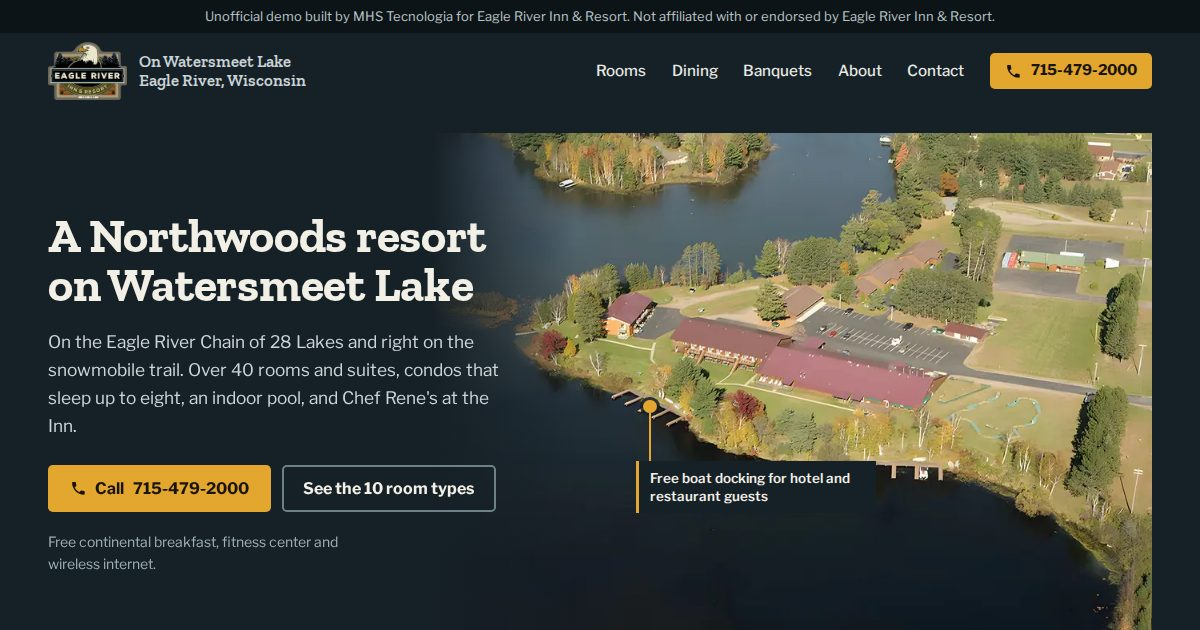
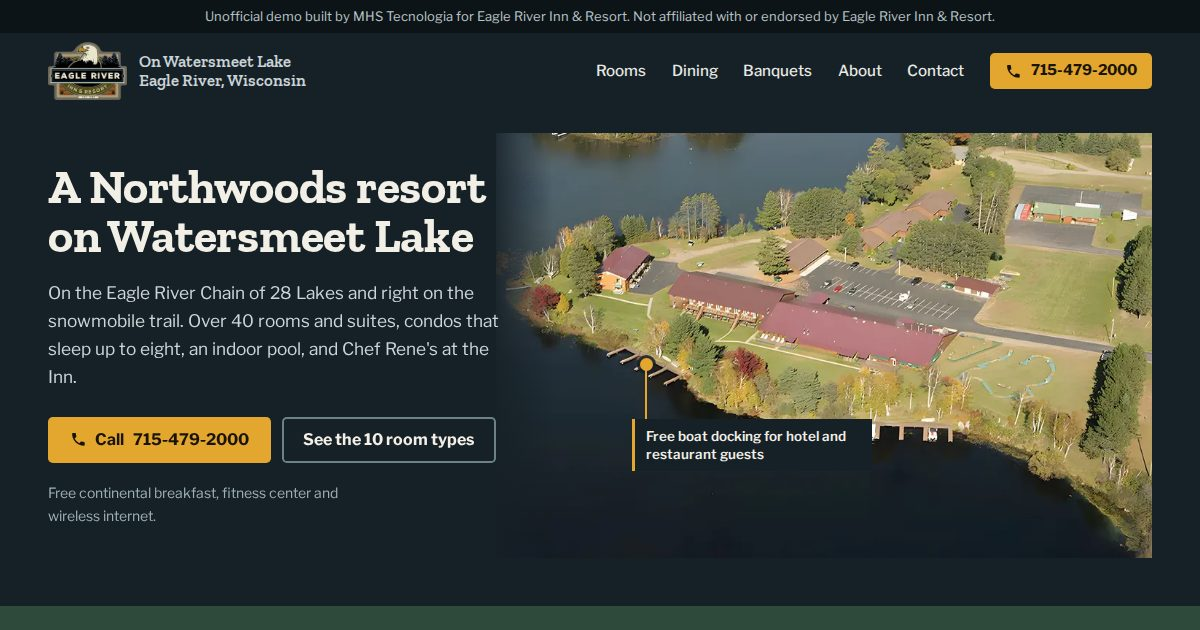
Previews: 118 ativos

diff --git a/eagle-river-inn-resort-wi/rooms.html b/eagle-river-inn-resort-wi/rooms.html
@@ -82,16 +82,16 @@ p { max-width: 64ch; }
 .hero .lede { margin-top: 1.1rem; color: #ccd5d7; font-size: 1.08rem; }
 .ctas { display: flex; flex-wrap: wrap; gap: .7rem; margin-top: 1.6rem; }
 .hero .small { margin-top: 1.2rem; font-size: .875rem; color: #9fb0b5; max-width: 34ch; }
-.aerial { position: relative; margin-left: -6rem; }
+.aerial { position: relative; margin-left: -2rem; }
 .aerial picture, .aerial img { width: 100%; }
-.aerial::before { content: ""; position: absolute; inset: 0 auto 0 0; width: 9rem; background: linear-gradient(90deg, var(--lake), rgba(22,32,39,0)); z-index: 1; pointer-events: none; }
+.aerial::before { content: ""; position: absolute; inset: 0 auto 0 0; width: 3.5rem; background: linear-gradient(90deg, rgba(22,32,39,.85), rgba(22,32,39,0)); z-index: 1; pointer-events: none; }
 .aerial figcaption { position: absolute; right: .8rem; bottom: .6rem; z-index: 2; font-size: .75rem; color: #e3e8e6; background: rgba(22,32,39,.72); padding: .2rem .5rem; border-radius: .2rem; }
 /* One fact, pinned where it is in the photo: the piers in front of the lodge. */
 .pin { position: absolute; z-index: 2; left: var(--px); top: var(--py); width: 0; height: 0; }
 .pin::before { content: ""; position: absolute; left: -.42rem; top: -.42rem; width: .84rem; height: .84rem; border-radius: 50%; background: var(--beak); box-shadow: 0 0 0 3px rgba(22,32,39,.85); }
 .pin::after { content: ""; position: absolute; left: -1px; top: 0; width: 2px; height: 3.4rem; background: var(--beak); transform-origin: top; }
 .pin span { position: absolute; left: -.9rem; top: 3.4rem; width: 15rem; background: var(--lake); color: #f1efe6; font-size: .84rem; line-height: 1.35; font-weight: 600; padding: .5rem .7rem; border-left: 3px solid var(--beak); }
-.hero { --px: 30.3%; --py: 52.4%; }
+.hero { --px: 22.9%; --py: 54.5%; }
 @media (prefers-reduced-motion: no-preference) {
   .pin::after { animation: rise .7s .5s cubic-bezier(.2,.7,.2,1) both; }
   .pin span { animation: show .4s 1.1s ease-out both; }
@@ -166,8 +166,14 @@ section.band { padding: clamp(3.5rem, 7vw, 6rem) 0; }
 .room p { margin-top: .6rem; color: var(--muted); }
 .tags { display: flex; flex-wrap: wrap; gap: .4rem; margin-top: .8rem; padding: 0; list-style: none; }
 .tags li { font-size: .82rem; font-weight: 600; padding: .2rem .55rem; background: #dfe5dc; color: var(--pine); border-radius: .2rem; }
-.room.text-only { background: var(--paper); padding: 1.6rem; border-left: 4px solid var(--roof); align-self: start; }
+.room.text-only { background: var(--lake); color: #f1efe6; padding: clamp(1.6rem, 3vw, 2.4rem); border-radius: .2rem; display: flex; flex-direction: column; }
 .room.text-only h2 { margin-top: 0; }
+.room.text-only .key { font-family: "Zilla Slab", Georgia, serif; font-weight: 700; font-size: clamp(2.4rem, 4vw, 3.4rem); line-height: 1; color: var(--beak); margin-bottom: 1.2rem; }
+.room.text-only .beds { color: #f1efe6; }
+.room.text-only p { color: #ccd5d7; }
+.room.text-only .tags li { background: var(--lake-2); color: #e6e9e4; }
+.room.text-only .layout { list-style: none; padding: 0; margin-top: auto; padding-top: 1.4rem; border-top: 1px solid var(--lake-line); display: grid; gap: .3rem; font-size: .95rem; }
+.room.text-only .layout b { color: #fff; }
 .empty { padding: 2rem 0; font-weight: 600; }
 .every { padding: 1.5rem 0 3.5rem; color: var(--muted); }
 
@@ -233,6 +239,9 @@ footer .legal { margin-top: 2.5rem; padding-top: 1.25rem; border-top: 1px solid 
   .ctas { margin-top: 1.2rem; }
   .ctas .btn { flex: 1 1 100%; }
   .hero .small { display: none; }
+  .lede-more { display: none; }
+  .hero h1 { font-size: 2.15rem; }
+  .aerial { margin-top: 1rem; }
   .facts { grid-template-columns: 1fr; }
   .trio { grid-template-columns: 1fr; }
   .gallery { grid-template-columns: 1fr; }
@@ -287,10 +296,10 @@ footer .legal { margin-top: 2.5rem; padding-top: 1.25rem; border-top: 1px solid 
 <li class="room" id="bunk-bed" data-tags="bunk"><img src="img/room-14-960.webp" srcset="img/room-14-960.webp 960w, img/room-14-720.webp 720w, img/room-14-480.webp 480w" sizes="(min-width: 1310px) 572px, (min-width: 901px) calc(50vw - 3rem), calc(100vw - 2rem)" width="960" height="640" alt="The Bunk Bed Room" loading="lazy" decoding="async"><h2>Bunk Bed Room</h2><p class="beds">1 queen bed and twin bunk beds</p><p>A spacious room with a queen bed and twin bunk beds. Mini fridge, microwave, remote control color television, air conditioning, in-room coffee and continental breakfast.</p><ul class="tags"><li>Bunk beds</li></ul></li>
 <li class="room" id="king-kitchenette" data-tags="kitchen"><img src="img/room-15-960.webp" srcset="img/room-15-960.webp 960w, img/room-15-720.webp 720w, img/room-15-480.webp 480w" sizes="(min-width: 1310px) 572px, (min-width: 901px) calc(50vw - 3rem), calc(100vw - 2rem)" width="960" height="640" alt="The King room with Kitchenette" loading="lazy" decoding="async"><h2>King room with Kitchenette</h2><p class="beds">1 king bed and a queen sofa sleeper</p><p>A large room with a kitchenette: full sized refrigerator, 2 counter-top burners, cooking appliances and a dining area. Remote control color television, air conditioning, in-room coffee and continental breakfast.</p><ul class="tags"><li>Kitchen or kitchenette</li></ul></li>
 <li class="room" id="jacuzzi-suite" data-tags="jacuzzi"><img src="img/room-17-960.webp" srcset="img/room-17-960.webp 960w, img/room-17-720.webp 720w, img/room-17-480.webp 480w" sizes="(min-width: 1310px) 572px, (min-width: 901px) calc(50vw - 3rem), calc(100vw - 2rem)" width="960" height="640" alt="The Jacuzzi Suite" loading="lazy" decoding="async"><h2>Jacuzzi Suite</h2><p class="beds">1 king bed and a Jacuzzi tub</p><p>The dream suite: a comfortable king bed and a Jacuzzi tub. Mini fridge, microwave, remote control color television, air conditioning, in-room coffee and continental breakfast.</p><ul class="tags"><li>Jacuzzi tub</li></ul></li>
-<li class="room" id="standard-suite" data-tags="bedroom"><img src="img/room-18-960.webp" srcset="img/room-18-960.webp 960w, img/room-18-720.webp 720w, img/room-18-480.webp 480w" sizes="(min-width: 1310px) 572px, (min-width: 901px) calc(50vw - 3rem), calc(100vw - 2rem)" width="960" height="640" alt="The Standard Suite" loading="lazy" decoding="async"><h2>Standard Suite</h2><p class="beds">1 king bed in a private bedroom, 2 queen beds in the living area</p><p>A private bedroom with a king bed, and two more queen beds in the separate living area. Mini fridge, microwave, color television, air conditioning, in-room coffee and continental breakfast.</p><ul class="tags"><li>Separate bedroom</li></ul></li>
+<li class="room text-only" id="standard-suite" data-tags="bedroom"><p class="key">3 beds, 2 rooms</p><h2>Standard Suite</h2><p class="beds">1 king bed in a private bedroom, 2 queen beds in the living area</p><p>A private bedroom with a king bed, and two more queen beds in the separate living area. Mini fridge, microwave, color television, air conditioning, in-room coffee and continental breakfast.</p><ul class="tags"><li>Separate bedroom</li></ul><ul class="layout"><li><b>Bedroom:</b> 1 king bed</li><li><b>Living area:</b> 2 queen beds</li></ul></li>
 <li class="room" id="presidential-suite" data-tags="bedroom kitchen jacuzzi"><img src="img/room-19-960.webp" srcset="img/room-19-960.webp 960w, img/room-19-720.webp 720w, img/room-19-480.webp 480w" sizes="(min-width: 1310px) 572px, (min-width: 901px) calc(50vw - 3rem), calc(100vw - 2rem)" width="960" height="640" alt="The Presidential Suite" loading="lazy" decoding="async"><h2>Presidential Suite</h2><p class="beds">1 queen bed in a private bedroom, a king bed and queen sofa sleeper in the living area</p><p>A large suite with a kitchen and a 2 person Jacuzzi tub in the bathroom. Air conditioning, in-room coffee and continental breakfast.</p><ul class="tags"><li>Separate bedroom</li><li>Kitchen or kitchenette</li><li>Jacuzzi tub</li></ul></li>
 <li class="room" id="3-bedroom-suite" data-tags="bedroom kitchen lake"><img src="img/room-20-960.webp" srcset="img/room-20-960.webp 960w, img/room-20-720.webp 720w, img/room-20-480.webp 480w" sizes="(min-width: 1310px) 572px, (min-width: 901px) calc(50vw - 3rem), calc(100vw - 2rem)" width="960" height="640" alt="The 3 Bedroom Suite" loading="lazy" decoding="async"><h2>3 Bedroom Suite</h2><p class="beds">3 private bedrooms with queen beds, plus a queen sofa sleeper</p><p>3 bedrooms and 2 bathrooms, a full kitchen, and 2 sets of glass patio doors with a lake view: one off the living area, one off a bedroom. Color television, air conditioning, in-room coffee and continental breakfast.</p><ul class="tags"><li>Separate bedroom</li><li>Kitchen or kitchenette</li><li>Lake view or patio</li></ul></li>
-<li class="room text-only" id="condo" data-tags="bedroom"><h2>Condominium rental</h2><p class="beds">Sleeps up to eight</p><p>Three bedrooms and three baths. Ask the front desk about condo availability.</p><ul class="tags"><li>Separate bedroom</li></ul></li>
+<li class="room text-only" id="condo" data-tags="bedroom"><p class="key">Sleeps up to 8</p><h2>Condominium rental</h2><p class="beds">A place of its own at the resort</p><p>Ask the front desk about condo availability.</p><ul class="tags"><li>Separate bedroom</li></ul><ul class="layout"><li><b>3</b> bedrooms</li><li><b>3</b> baths</li></ul></li>
   </ul>
   <p class="empty" id="empty" hidden>No single room type has all of those. Clear a filter, or call <a class="num" href="tel:+17154792000">715-479-2000</a> and the front desk will suggest a combination.</p>
   <p class="every">Book by phone at <a class="num" href="tel:+17154792000">715-479-2000</a>, 24 hours a day. Online booking on the inn's live site goes through its Lodgical reservation calendar.</p>

diff --git a/eagle-river-inn-resort-wi/index.html b/eagle-river-inn-resort-wi/index.html
@@ -83,16 +83,16 @@ p { max-width: 64ch; }
 .hero .lede { margin-top: 1.1rem; color: #ccd5d7; font-size: 1.08rem; }
 .ctas { display: flex; flex-wrap: wrap; gap: .7rem; margin-top: 1.6rem; }
 .hero .small { margin-top: 1.2rem; font-size: .875rem; color: #9fb0b5; max-width: 34ch; }
-.aerial { position: relative; margin-left: -6rem; }
+.aerial { position: relative; margin-left: -2rem; }
 .aerial picture, .aerial img { width: 100%; }
-.aerial::before { content: ""; position: absolute; inset: 0 auto 0 0; width: 9rem; background: linear-gradient(90deg, var(--lake), rgba(22,32,39,0)); z-index: 1; pointer-events: none; }
+.aerial::before { content: ""; position: absolute; inset: 0 auto 0 0; width: 3.5rem; background: linear-gradient(90deg, rgba(22,32,39,.85), rgba(22,32,39,0)); z-index: 1; pointer-events: none; }
 .aerial figcaption { position: absolute; right: .8rem; bottom: .6rem; z-index: 2; font-size: .75rem; color: #e3e8e6; background: rgba(22,32,39,.72); padding: .2rem .5rem; border-radius: .2rem; }
 /* One fact, pinned where it is in the photo: the piers in front of the lodge. */
 .pin { position: absolute; z-index: 2; left: var(--px); top: var(--py); width: 0; height: 0; }
 .pin::before { content: ""; position: absolute; left: -.42rem; top: -.42rem; width: .84rem; height: .84rem; border-radius: 50%; background: var(--beak); box-shadow: 0 0 0 3px rgba(22,32,39,.85); }
 .pin::after { content: ""; position: absolute; left: -1px; top: 0; width: 2px; height: 3.4rem; background: var(--beak); transform-origin: top; }
 .pin span { position: absolute; left: -.9rem; top: 3.4rem; width: 15rem; background: var(--lake); color: #f1efe6; font-size: .84rem; line-height: 1.35; font-weight: 600; padding: .5rem .7rem; border-left: 3px solid var(--beak); }
-.hero { --px: 30.3%; --py: 52.4%; }
+.hero { --px: 22.9%; --py: 54.5%; }
 @media (prefers-reduced-motion: no-preference) {
   .pin::after { animation: rise .7s .5s cubic-bezier(.2,.7,.2,1) both; }
   .pin span { animation: show .4s 1.1s ease-out both; }
@@ -167,8 +167,14 @@ section.band { padding: clamp(3.5rem, 7vw, 6rem) 0; }
 .room p { margin-top: .6rem; color: var(--muted); }
 .tags { display: flex; flex-wrap: wrap; gap: .4rem; margin-top: .8rem; padding: 0; list-style: none; }
 .tags li { font-size: .82rem; font-weight: 600; padding: .2rem .55rem; background: #dfe5dc; color: var(--pine); border-radius: .2rem; }
-.room.text-only { background: var(--paper); padding: 1.6rem; border-left: 4px solid var(--roof); align-self: start; }
+.room.text-only { background: var(--lake); color: #f1efe6; padding: clamp(1.6rem, 3vw, 2.4rem); border-radius: .2rem; display: flex; flex-direction: column; }
 .room.text-only h2 { margin-top: 0; }
+.room.text-only .key { font-family: "Zilla Slab", Georgia, serif; font-weight: 700; font-size: clamp(2.4rem, 4vw, 3.4rem); line-height: 1; color: var(--beak); margin-bottom: 1.2rem; }
+.room.text-only .beds { color: #f1efe6; }
+.room.text-only p { color: #ccd5d7; }
+.room.text-only .tags li { background: var(--lake-2); color: #e6e9e4; }
+.room.text-only .layout { list-style: none; padding: 0; margin-top: auto; padding-top: 1.4rem; border-top: 1px solid var(--lake-line); display: grid; gap: .3rem; font-size: .95rem; }
+.room.text-only .layout b { color: #fff; }
 .empty { padding: 2rem 0; font-weight: 600; }
 .every { padding: 1.5rem 0 3.5rem; color: var(--muted); }
 
@@ -234,6 +240,9 @@ footer .legal { margin-top: 2.5rem; padding-top: 1.25rem; border-top: 1px solid 
   .ctas { margin-top: 1.2rem; }
   .ctas .btn { flex: 1 1 100%; }
   .hero .small { display: none; }
+  .lede-more { display: none; }
+  .hero h1 { font-size: 2.15rem; }
+  .aerial { margin-top: 1rem; }
   .facts { grid-template-columns: 1fr; }
   .trio { grid-template-columns: 1fr; }
   .gallery { grid-template-columns: 1fr; }
@@ -277,7 +286,7 @@ footer .legal { margin-top: 2.5rem; padding-top: 1.25rem; border-top: 1px solid 
   <div class="hero-in">
     <div class="hero-text">
       <h1 id="h1">A Northwoods resort on Watersmeet Lake</h1>
-      <p class="lede">On the Eagle River Chain of 28 Lakes and right on the snowmobile trail. Over 40 rooms and suites, condos that sleep up to eight, an indoor pool, and Chef Rene's at the Inn.</p>
+      <p class="lede">On the Eagle River Chain of 28 Lakes and right on the snowmobile trail.<span class="lede-more"> Over 40 rooms and suites, condos that sleep up to eight, an indoor pool, and Chef Rene's at the Inn.</span></p>
       <div class="ctas">
         <a class="btn gold" href="tel:+17154792000"><svg viewBox="0 0 24 24" aria-hidden="true" fill="currentColor"><path d="M6.6 10.8a15.1 15.1 0 0 0 6.6 6.6l2.2-2.2c.3-.3.7-.4 1-.2 1.1.4 2.3.6 3.6.6.6 0 1 .4 1 1V20c0 .6-.4 1-1 1A17 17 0 0 1 3 4c0-.6.4-1 1-1h3.5c.6 0 1 .4 1 1 0 1.3.2 2.5.6 3.6.1.3 0 .7-.2 1z"/></svg>Call <span class="num">715-479-2000</span></a>
         <a class="btn line" href="rooms.html">See the 10 room types</a>
@@ -287,7 +296,7 @@ footer .legal { margin-top: 2.5rem; padding-top: 1.25rem; border-top: 1px solid 
     <figure class="aerial">
       <picture>
         <source media="(max-width: 900px)" srcset="img/hero-m-480.webp 480w, img/hero-m-800.webp 800w" sizes="100vw" width="800" height="514">
-        <img src="img/hero-1400.webp" srcset="img/hero-900.webp 900w, img/hero-1400.webp 1400w" sizes="(min-width: 1310px) 862px, calc(66vw - 1rem)" width="1400" height="1014" alt="Aerial photo of the Eagle River Inn and Resort on a point of Watersmeet Lake in autumn, with its piers on the water" fetchpriority="high">
+        <img src="img/hero-1400.webp" srcset="img/hero-900.webp 900w, img/hero-1400.webp 1400w" sizes="(min-width: 1310px) 862px, calc(66vw - 1rem)" width="1400" height="906" alt="Aerial photo of the Eagle River Inn and Resort on a point of Watersmeet Lake in autumn, with its piers on the water" fetchpriority="high">
       </picture>
       <span class="pin"><span>Free boat docking for hotel and restaurant guests</span></span>
     </figure>
@@ -320,7 +329,7 @@ footer .legal { margin-top: 2.5rem; padding-top: 1.25rem; border-top: 1px solid 
     <div>
       <h2 id="rooms-h">Ten room types to fit the trip</h2>
       <p class="intro">Lakeside patio rooms, Jacuzzi dream suites, one, two and three bedroom suites, and condos.</p>
-      <ul class="roomlist"><li><a href="rooms.html#deluxe-2-queen"><b>Deluxe 2 Queen</b><small>2 queen beds</small></a></li><li><a href="rooms.html#2-queen-patio"><b>Deluxe 2 Queen Lake Side Patio</b><small>2 queen beds</small></a></li><li><a href="rooms.html#king-patio"><b>1 King Deluxe Lake Side Patio</b><small>1 king bed</small></a></li><li><a href="rooms.html#bunk-bed"><b>Bunk Bed Room</b><small>1 queen bed and twin bunk beds</small></a></li><li><a href="rooms.html#king-kitchenette"><b>King room with Kitchenette</b><small>1 king bed and a queen sofa sleeper</small></a></li><li><a href="rooms.html#jacuzzi-suite"><b>Jacuzzi Suite</b><small>1 king bed and a Jacuzzi tub</small></a></li><li><a href="rooms.html#standard-suite"><b>Standard Suite</b><small>1 king bed in a private bedroom, 2 queen beds in the living area</small></a></li><li><a href="rooms.html#presidential-suite"><b>Presidential Suite</b><small>1 queen bed in a private bedroom, a king bed and queen sofa sleeper in the living area</small></a></li><li><a href="rooms.html#3-bedroom-suite"><b>3 Bedroom Suite</b><small>3 private bedrooms with queen beds, plus a queen sofa sleeper</small></a></li><li><a href="rooms.html#condo"><b>Condominium rental</b><small>Sleeps up to eight</small></a></li></ul>
+      <ul class="roomlist"><li><a href="rooms.html#deluxe-2-queen"><b>Deluxe 2 Queen</b><small>2 queen beds</small></a></li><li><a href="rooms.html#2-queen-patio"><b>Deluxe 2 Queen Lake Side Patio</b><small>2 queen beds</small></a></li><li><a href="rooms.html#king-patio"><b>1 King Deluxe Lake Side Patio</b><small>1 king bed</small></a></li><li><a href="rooms.html#bunk-bed"><b>Bunk Bed Room</b><small>1 queen bed and twin bunk beds</small></a></li><li><a href="rooms.html#king-kitchenette"><b>King room with Kitchenette</b><small>1 king bed and a queen sofa sleeper</small></a></li><li><a href="rooms.html#jacuzzi-suite"><b>Jacuzzi Suite</b><small>1 king bed and a Jacuzzi tub</small></a></li><li><a href="rooms.html#standard-suite"><b>Standard Suite</b><small>1 king bed in a private bedroom, 2 queen beds in the living area</small></a></li><li><a href="rooms.html#presidential-suite"><b>Presidential Suite</b><small>1 queen bed in a private bedroom, a king bed and queen sofa sleeper in the living area</small></a></li><li><a href="rooms.html#3-bedroom-suite"><b>3 Bedroom Suite</b><small>3 private bedrooms with queen beds, plus a queen sofa sleeper</small></a></li><li><a href="rooms.html#condo"><b>Condominium rental</b><small>A place of its own at the resort</small></a></li></ul>
       <a class="more" href="rooms.html">Compare the rooms</a>
     </div>
   </div>
@@ -336,7 +345,6 @@ footer .legal { margin-top: 2.5rem; padding-top: 1.25rem; border-top: 1px solid 
         <caption>Restaurant hours</caption>
         <tr><th scope="row">Wednesday and Thursday</th><td class="num">5 pm – 9 pm</td></tr>
         <tr><th scope="row">Friday and Saturday</th><td class="num">5 pm – 10 pm</td></tr>
-        <tr><th scope="row">Sunday breakfast buffet</th><td class="num">8 am – 12 pm</td></tr>
       </table>
       <div>
         <p>After a day of fishing, snowmobiling, skiing or boating, come in for drinks and dinner.</p>

diff --git a/eagle-river-inn-resort-wi/dining.html b/eagle-river-inn-resort-wi/dining.html
@@ -81,16 +81,16 @@ p { max-width: 64ch; }
 .hero .lede { margin-top: 1.1rem; color: #ccd5d7; font-size: 1.08rem; }
 .ctas { display: flex; flex-wrap: wrap; gap: .7rem; margin-top: 1.6rem; }
 .hero .small { margin-top: 1.2rem; font-size: .875rem; color: #9fb0b5; max-width: 34ch; }
-.aerial { position: relative; margin-left: -6rem; }
+.aerial { position: relative; margin-left: -2rem; }
 .aerial picture, .aerial img { width: 100%; }
-.aerial::before { content: ""; position: absolute; inset: 0 auto 0 0; width: 9rem; background: linear-gradient(90deg, var(--lake), rgba(22,32,39,0)); z-index: 1; pointer-events: none; }
+.aerial::before { content: ""; position: absolute; inset: 0 auto 0 0; width: 3.5rem; background: linear-gradient(90deg, rgba(22,32,39,.85), rgba(22,32,39,0)); z-index: 1; pointer-events: none; }
 .aerial figcaption { position: absolute; right: .8rem; bottom: .6rem; z-index: 2; font-size: .75rem; color: #e3e8e6; background: rgba(22,32,39,.72); padding: .2rem .5rem; border-radius: .2rem; }
 /* One fact, pinned where it is in the photo: the piers in front of the lodge. */
 .pin { position: absolute; z-index: 2; left: var(--px); top: var(--py); width: 0; height: 0; }
 .pin::before { content: ""; position: absolute; left: -.42rem; top: -.42rem; width: .84rem; height: .84rem; border-radius: 50%; background: var(--beak); box-shadow: 0 0 0 3px rgba(22,32,39,.85); }
 .pin::after { content: ""; position: absolute; left: -1px; top: 0; width: 2px; height: 3.4rem; background: var(--beak); transform-origin: top; }
 .pin span { position: absolute; left: -.9rem; top: 3.4rem; width: 15rem; background: var(--lake); color: #f1efe6; font-size: .84rem; line-height: 1.35; font-weight: 600; padding: .5rem .7rem; border-left: 3px solid var(--beak); }
-.hero { --px: 30.3%; --py: 52.4%; }
+.hero { --px: 22.9%; --py: 54.5%; }
 @media (prefers-reduced-motion: no-preference) {
   .pin::after { animation: rise .7s .5s cubic-bezier(.2,.7,.2,1) both; }
   .pin span { animation: show .4s 1.1s ease-out both; }
@@ -165,8 +165,14 @@ section.band { padding: clamp(3.5rem, 7vw, 6rem) 0; }
 .room p { margin-top: .6rem; color: var(--muted); }
 .tags { display: flex; flex-wrap: wrap; gap: .4rem; margin-top: .8rem; padding: 0; list-style: none; }
 .tags li { font-size: .82rem; font-weight: 600; padding: .2rem .55rem; background: #dfe5dc; color: var(--pine); border-radius: .2rem; }
-.room.text-only { background: var(--paper); padding: 1.6rem; border-left: 4px solid var(--roof); align-self: start; }
+.room.text-only { background: var(--lake); color: #f1efe6; padding: clamp(1.6rem, 3vw, 2.4rem); border-radius: .2rem; display: flex; flex-direction: column; }
 .room.text-only h2 { margin-top: 0; }
+.room.text-only .key { font-family: "Zilla Slab", Georgia, serif; font-weight: 700; font-size: clamp(2.4rem, 4vw, 3.4rem); line-height: 1; color: var(--beak); margin-bottom: 1.2rem; }
+.room.text-only .beds { color: #f1efe6; }
+.room.text-only p { color: #ccd5d7; }
+.room.text-only .tags li { background: var(--lake-2); color: #e6e9e4; }
+.room.text-only .layout { list-style: none; padding: 0; margin-top: auto; padding-top: 1.4rem; border-top: 1px solid var(--lake-line); display: grid; gap: .3rem; font-size: .95rem; }
+.room.text-only .layout b { color: #fff; }
 .empty { padding: 2rem 0; font-weight: 600; }
 .every { padding: 1.5rem 0 3.5rem; color: var(--muted); }
 
@@ -232,6 +238,9 @@ footer .legal { margin-top: 2.5rem; padding-top: 1.25rem; border-top: 1px solid 
   .ctas { margin-top: 1.2rem; }
   .ctas .btn { flex: 1 1 100%; }
   .hero .small { display: none; }
+  .lede-more { display: none; }
+  .hero h1 { font-size: 2.15rem; }
+  .aerial { margin-top: 1rem; }
   .facts { grid-template-columns: 1fr; }
   .trio { grid-template-columns: 1fr; }
   .gallery { grid-template-columns: 1fr; }
@@ -285,7 +294,6 @@ footer .legal { margin-top: 2.5rem; padding-top: 1.25rem; border-top: 1px solid 
         <caption>Restaurant hours</caption>
         <tr><th scope="row">Wednesday and Thursday</th><td class="num">5 pm – 9 pm</td></tr>
         <tr><th scope="row">Friday and Saturday</th><td class="num">5 pm – 10 pm</td></tr>
-        <tr><th scope="row">Sunday breakfast buffet</th><td class="num">8 am – 12 pm</td></tr>
       </table>
     </div>
     <div class="trio">

diff --git a/eagle-river-inn-resort-wi/about.html b/eagle-river-inn-resort-wi/about.html
@@ -81,16 +81,16 @@ p { max-width: 64ch; }
 .hero .lede { margin-top: 1.1rem; color: #ccd5d7; font-size: 1.08rem; }
 .ctas { display: flex; flex-wrap: wrap; gap: .7rem; margin-top: 1.6rem; }
 .hero .small { margin-top: 1.2rem; font-size: .875rem; color: #9fb0b5; max-width: 34ch; }
-.aerial { position: relative; margin-left: -6rem; }
+.aerial { position: relative; margin-left: -2rem; }
 .aerial picture, .aerial img { width: 100%; }
-.aerial::before { content: ""; position: absolute; inset: 0 auto 0 0; width: 9rem; background: linear-gradient(90deg, var(--lake), rgba(22,32,39,0)); z-index: 1; pointer-events: none; }
+.aerial::before { content: ""; position: absolute; inset: 0 auto 0 0; width: 3.5rem; background: linear-gradient(90deg, rgba(22,32,39,.85), rgba(22,32,39,0)); z-index: 1; pointer-events: none; }
 .aerial figcaption { position: absolute; right: .8rem; bottom: .6rem; z-index: 2; font-size: .75rem; color: #e3e8e6; background: rgba(22,32,39,.72); padding: .2rem .5rem; border-radius: .2rem; }
 /* One fact, pinned where it is in the photo: the piers in front of the lodge. */
 .pin { position: absolute; z-index: 2; left: var(--px); top: var(--py); width: 0; height: 0; }
 .pin::before { content: ""; position: absolute; left: -.42rem; top: -.42rem; width: .84rem; height: .84rem; border-radius: 50%; background: var(--beak); box-shadow: 0 0 0 3px rgba(22,32,39,.85); }
 .pin::after { content: ""; position: absolute; left: -1px; top: 0; width: 2px; height: 3.4rem; background: var(--beak); transform-origin: top; }
 .pin span { position: absolute; left: -.9rem; top: 3.4rem; width: 15rem; background: var(--lake); color: #f1efe6; font-size: .84rem; line-height: 1.35; font-weight: 600; padding: .5rem .7rem; border-left: 3px solid var(--beak); }
-.hero { --px: 30.3%; --py: 52.4%; }
+.hero { --px: 22.9%; --py: 54.5%; }
 @media (prefers-reduced-motion: no-preference) {
   .pin::after { animation: rise .7s .5s cubic-bezier(.2,.7,.2,1) both; }
   .pin span { animation: show .4s 1.1s ease-out both; }
@@ -165,8 +165,14 @@ section.band { padding: clamp(3.5rem, 7vw, 6rem) 0; }
 .room p { margin-top: .6rem; color: var(--muted); }
 .tags { display: flex; flex-wrap: wrap; gap: .4rem; margin-top: .8rem; padding: 0; list-style: none; }
 .tags li { font-size: .82rem; font-weight: 600; padding: .2rem .55rem; background: #dfe5dc; color: var(--pine); border-radius: .2rem; }
-.room.text-only { background: var(--paper); padding: 1.6rem; border-left: 4px solid var(--roof); align-self: start; }
+.room.text-only { background: var(--lake); color: #f1efe6; padding: clamp(1.6rem, 3vw, 2.4rem); border-radius: .2rem; display: flex; flex-direction: column; }
 .room.text-only h2 { margin-top: 0; }
+.room.text-only .key { font-family: "Zilla Slab", Georgia, serif; font-weight: 700; font-size: clamp(2.4rem, 4vw, 3.4rem); line-height: 1; color: var(--beak); margin-bottom: 1.2rem; }
+.room.text-only .beds { color: #f1efe6; }
+.room.text-only p { color: #ccd5d7; }
+.room.text-only .tags li { background: var(--lake-2); color: #e6e9e4; }
+.room.text-only .layout { list-style: none; padding: 0; margin-top: auto; padding-top: 1.4rem; border-top: 1px solid var(--lake-line); display: grid; gap: .3rem; font-size: .95rem; }
+.room.text-only .layout b { color: #fff; }
 .empty { padding: 2rem 0; font-weight: 600; }
 .every { padding: 1.5rem 0 3.5rem; color: var(--muted); }
 
@@ -232,6 +238,9 @@ footer .legal { margin-top: 2.5rem; padding-top: 1.25rem; border-top: 1px solid 
   .ctas { margin-top: 1.2rem; }
   .ctas .btn { flex: 1 1 100%; }
   .hero .small { display: none; }
+  .lede-more { display: none; }
+  .hero h1 { font-size: 2.15rem; }
+  .aerial { margin-top: 1rem; }
   .facts { grid-template-columns: 1fr; }
   .trio { grid-template-columns: 1fr; }
   .gallery { grid-template-columns: 1fr; }

diff --git a/eagle-river-inn-resort-wi/banquets.html b/eagle-river-inn-resort-wi/banquets.html
@@ -81,16 +81,16 @@ p { max-width: 64ch; }
 .hero .lede { margin-top: 1.1rem; color: #ccd5d7; font-size: 1.08rem; }
 .ctas { display: flex; flex-wrap: wrap; gap: .7rem; margin-top: 1.6rem; }
 .hero .small { margin-top: 1.2rem; font-size: .875rem; color: #9fb0b5; max-width: 34ch; }
-.aerial { position: relative; margin-left: -6rem; }
+.aerial { position: relative; margin-left: -2rem; }
 .aerial picture, .aerial img { width: 100%; }
-.aerial::before { content: ""; position: absolute; inset: 0 auto 0 0; width: 9rem; background: linear-gradient(90deg, var(--lake), rgba(22,32,39,0)); z-index: 1; pointer-events: none; }
+.aerial::before { content: ""; position: absolute; inset: 0 auto 0 0; width: 3.5rem; background: linear-gradient(90deg, rgba(22,32,39,.85), rgba(22,32,39,0)); z-index: 1; pointer-events: none; }
 .aerial figcaption { position: absolute; right: .8rem; bottom: .6rem; z-index: 2; font-size: .75rem; color: #e3e8e6; background: rgba(22,32,39,.72); padding: .2rem .5rem; border-radius: .2rem; }
 /* One fact, pinned where it is in the photo: the piers in front of the lodge. */
 .pin { position: absolute; z-index: 2; left: var(--px); top: var(--py); width: 0; height: 0; }
 .pin::before { content: ""; position: absolute; left: -.42rem; top: -.42rem; width: .84rem; height: .84rem; border-radius: 50%; background: var(--beak); box-shadow: 0 0 0 3px rgba(22,32,39,.85); }
 .pin::after { content: ""; position: absolute; left: -1px; top: 0; width: 2px; height: 3.4rem; background: var(--beak); transform-origin: top; }
 .pin span { position: absolute; left: -.9rem; top: 3.4rem; width: 15rem; background: var(--lake); color: #f1efe6; font-size: .84rem; line-height: 1.35; font-weight: 600; padding: .5rem .7rem; border-left: 3px solid var(--beak); }
-.hero { --px: 30.3%; --py: 52.4%; }
+.hero { --px: 22.9%; --py: 54.5%; }
 @media (prefers-reduced-motion: no-preference) {
   .pin::after { animation: rise .7s .5s cubic-bezier(.2,.7,.2,1) both; }
   .pin span { animation: show .4s 1.1s ease-out both; }
@@ -165,8 +165,14 @@ section.band { padding: clamp(3.5rem, 7vw, 6rem) 0; }
 .room p { margin-top: .6rem; color: var(--muted); }
 .tags { display: flex; flex-wrap: wrap; gap: .4rem; margin-top: .8rem; padding: 0; list-style: none; }
 .tags li { font-size: .82rem; font-weight: 600; padding: .2rem .55rem; background: #dfe5dc; color: var(--pine); border-radius: .2rem; }
-.room.text-only { background: var(--paper); padding: 1.6rem; border-left: 4px solid var(--roof); align-self: start; }
+.room.text-only { background: var(--lake); color: #f1efe6; padding: clamp(1.6rem, 3vw, 2.4rem); border-radius: .2rem; display: flex; flex-direction: column; }
 .room.text-only h2 { margin-top: 0; }
+.room.text-only .key { font-family: "Zilla Slab", Georgia, serif; font-weight: 700; font-size: clamp(2.4rem, 4vw, 3.4rem); line-height: 1; color: var(--beak); margin-bottom: 1.2rem; }
+.room.text-only .beds { color: #f1efe6; }
+.room.text-only p { color: #ccd5d7; }
+.room.text-only .tags li { background: var(--lake-2); color: #e6e9e4; }
+.room.text-only .layout { list-style: none; padding: 0; margin-top: auto; padding-top: 1.4rem; border-top: 1px solid var(--lake-line); display: grid; gap: .3rem; font-size: .95rem; }
+.room.text-only .layout b { color: #fff; }
 .empty { padding: 2rem 0; font-weight: 600; }
 .every { padding: 1.5rem 0 3.5rem; color: var(--muted); }
 
@@ -232,6 +238,9 @@ footer .legal { margin-top: 2.5rem; padding-top: 1.25rem; border-top: 1px solid 
   .ctas { margin-top: 1.2rem; }
   .ctas .btn { flex: 1 1 100%; }
   .hero .small { display: none; }
+  .lede-more { display: none; }
+  .hero h1 { font-size: 2.15rem; }
+  .aerial { margin-top: 1rem; }
   .facts { grid-template-columns: 1fr; }
   .trio { grid-template-columns: 1fr; }
   .gallery { grid-template-columns: 1fr; }

diff --git a/eagle-river-inn-resort-wi/contact.html b/eagle-river-inn-resort-wi/contact.html
@@ -81,16 +81,16 @@ p { max-width: 64ch; }
 .hero .lede { margin-top: 1.1rem; color: #ccd5d7; font-size: 1.08rem; }
 .ctas { display: flex; flex-wrap: wrap; gap: .7rem; margin-top: 1.6rem; }
 .hero .small { margin-top: 1.2rem; font-size: .875rem; color: #9fb0b5; max-width: 34ch; }
-.aerial { position: relative; margin-left: -6rem; }
+.aerial { position: relative; margin-left: -2rem; }
 .aerial picture, .aerial img { width: 100%; }
-.aerial::before { content: ""; position: absolute; inset: 0 auto 0 0; width: 9rem; background: linear-gradient(90deg, var(--lake), rgba(22,32,39,0)); z-index: 1; pointer-events: none; }
+.aerial::before { content: ""; position: absolute; inset: 0 auto 0 0; width: 3.5rem; background: linear-gradient(90deg, rgba(22,32,39,.85), rgba(22,32,39,0)); z-index: 1; pointer-events: none; }
 .aerial figcaption { position: absolute; right: .8rem; bottom: .6rem; z-index: 2; font-size: .75rem; color: #e3e8e6; background: rgba(22,32,39,.72); padding: .2rem .5rem; border-radius: .2rem; }
 /* One fact, pinned where it is in the photo: the piers in front of the lodge. */
 .pin { position: absolute; z-index: 2; left: var(--px); top: var(--py); width: 0; height: 0; }
 .pin::before { content: ""; position: absolute; left: -.42rem; top: -.42rem; width: .84rem; height: .84rem; border-radius: 50%; background: var(--beak); box-shadow: 0 0 0 3px rgba(22,32,39,.85); }
 .pin::after { content: ""; position: absolute; left: -1px; top: 0; width: 2px; height: 3.4rem; background: var(--beak); transform-origin: top; }
 .pin span { position: absolute; left: -.9rem; top: 3.4rem; width: 15rem; background: var(--lake); color: #f1efe6; font-size: .84rem; line-height: 1.35; font-weight: 600; padding: .5rem .7rem; border-left: 3px solid var(--beak); }
-.hero { --px: 30.3%; --py: 52.4%; }
+.hero { --px: 22.9%; --py: 54.5%; }
 @media (prefers-reduced-motion: no-preference) {
   .pin::after { animation: rise .7s .5s cubic-bezier(.2,.7,.2,1) both; }
   .pin span { animation: show .4s 1.1s ease-out both; }
@@ -165,8 +165,14 @@ section.band { padding: clamp(3.5rem, 7vw, 6rem) 0; }
 .room p { margin-top: .6rem; color: var(--muted); }
 .tags { display: flex; flex-wrap: wrap; gap: .4rem; margin-top: .8rem; padding: 0; list-style: none; }
 .tags li { font-size: .82rem; font-weight: 600; padding: .2rem .55rem; background: #dfe5dc; color: var(--pine); border-radius: .2rem; }
-.room.text-only { background: var(--paper); padding: 1.6rem; border-left: 4px solid var(--roof); align-self: start; }
+.room.text-only { background: var(--lake); color: #f1efe6; padding: clamp(1.6rem, 3vw, 2.4rem); border-radius: .2rem; display: flex; flex-direction: column; }
 .room.text-only h2 { margin-top: 0; }
+.room.text-only .key { font-family: "Zilla Slab", Georgia, serif; font-weight: 700; font-size: clamp(2.4rem, 4vw, 3.4rem); line-height: 1; color: var(--beak); margin-bottom: 1.2rem; }
+.room.text-only .beds { color: #f1efe6; }
+.room.text-only p { color: #ccd5d7; }
+.room.text-only .tags li { background: var(--lake-2); color: #e6e9e4; }
+.room.text-only .layout { list-style: none; padding: 0; margin-top: auto; padding-top: 1.4rem; border-top: 1px solid var(--lake-line); display: grid; gap: .3rem; font-size: .95rem; }
+.room.text-only .layout b { color: #fff; }
 .empty { padding: 2rem 0; font-weight: 600; }
 .every { padding: 1.5rem 0 3.5rem; color: var(--muted); }
 
@@ -232,6 +238,9 @@ footer .legal { margin-top: 2.5rem; padding-top: 1.25rem; border-top: 1px solid 
   .ctas { margin-top: 1.2rem; }
   .ctas .btn { flex: 1 1 100%; }
   .hero .small { display: none; }
+  .lede-more { display: none; }
+  .hero h1 { font-size: 2.15rem; }
+  .aerial { margin-top: 1rem; }
   .facts { grid-template-columns: 1fr; }
   .trio { grid-template-columns: 1fr; }
   .gallery { grid-template-columns: 1fr; }
